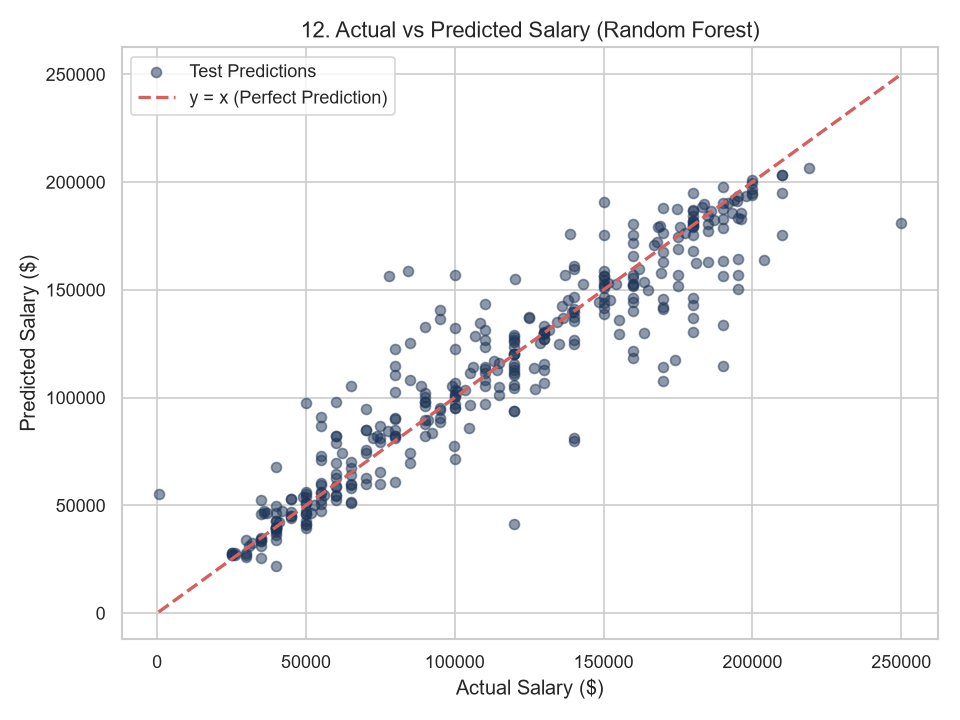
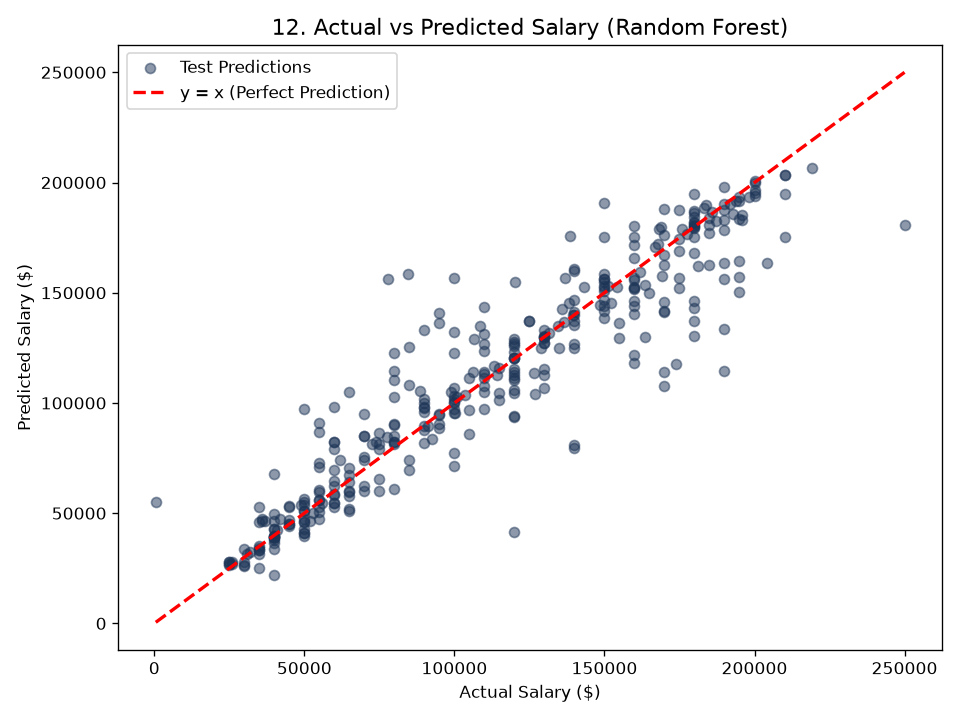
v3

diff --git a/stages/stage5_models.py b/stages/stage5_models.py
@@ -198,11 +198,14 @@ def train_models():
     comp_df = pd.DataFrame(comp_data)
     print(comp_df.to_string(index=False))
 
-    # 6. Save Best Model and Metrics
+    # 6. Save Best Model, All Models, Scaler, and Metrics
     best_model = fitted_models[best_by_r2]
     model_bundle = {
         "model_name": best_by_r2,
         "model": best_model,
+        "all_models": fitted_models,
+        "scaler": scaler,
+        "scale_cols": scale_cols_present,
         "feature_columns": feature_columns,
         "education_map": EDUCATION_MAP,
         "metrics": results_df.to_dict(orient="records"),
@@ -223,10 +226,71 @@ def train_models():
     return model_bundle, results_df
 
 
-def predict_salary(age, experience, gender, education, job_title, seniority=None, model_bundle=None):
+def explain_best_scenario(age, experience, education, job_title, seniority, predictions=None, metrics=None):
+    """
+    Generate dynamic, profile-aware reasoning for why Random Forest is superior
+    for this specific candidate profile compared to Linear Regression and Decision Tree.
+    """
+    rf_r2 = "86.9%"
+    lr_r2 = "81.3%"
+    dt_r2 = "83.7%"
+    rf_rmse = "$19,402"
+    lr_rmse = "$23,206"
+    dt_rmse = "$21,699"
+
+    if metrics:
+        for m in metrics:
+            if m.get("Model") == "Random Forest":
+                rf_r2 = f"{m.get('Test R²', 0.8693)*100:.1f}%"
+                rf_rmse = f"${m.get('RMSE ($)', 19401.5):,.0f}"
+            elif m.get("Model") == "Linear Regression":
+                lr_r2 = f"{m.get('Test R²', 0.8130)*100:.1f}%"
+                lr_rmse = f"${m.get('RMSE ($)', 23206.2):,.0f}"
+            elif m.get("Model") == "Decision Tree":
+                dt_r2 = f"{m.get('Test R²', 0.8365)*100:.1f}%"
+                dt_rmse = f"${m.get('RMSE ($)', 21698.9):,.0f}"
+
+    reasons = [
+        (
+            f"Highest Generalization Accuracy: On the independent test split, Random Forest achieved the highest "
+            f"Test R² ({rf_r2}) and lowest error (RMSE: {rf_rmse} vs {lr_rmse} for Linear Regression, {dt_rmse} for Decision Tree)."
+        ),
+        (
+            f"Captures Non-Linear Feature Interactions: Real compensation curves don't follow a rigid straight line. "
+            f"The compounding interaction between Seniority (Level {seniority}), {experience:g} years of experience, and a {education} "
+            f"degree creates non-linear tier thresholds that Linear Regression oversimplifies."
+        ),
+        (
+            "Variance Mitigation vs Single Decision Tree: A single Decision Tree creates rigid step-function jumps "
+            "and easily overfits training partitions. Random Forest averages predictions across 100 decorrelated trees "
+            "(bagging), producing a smooth, stabilized, and statistically reliable estimation."
+        ),
+    ]
+
+    if seniority >= 2 or experience >= 10:
+        reasons.append(
+            f"High-Seniority Compensation Dynamics: For Senior/Leadership roles (Seniority Level {seniority}, {experience:g} yrs exp), "
+            "compensation packages exhibit high variance and specialized market premiums. Random Forest's multi-tree consensus "
+            "prevents extreme single-branch overestimations or linear underestimations."
+        )
+    elif education in ("Master's", "PhD"):
+        reasons.append(
+            f"Postgraduate Degree Valuation: Advanced degrees ({education}) carry compounding career value that interacts "
+            "with specific job categories. Random Forest natively isolates these feature cross-interactions without forcing a fixed linear slope."
+        )
+
+    return reasons
+
+
+def predict_salary(age, experience, gender, education, job_title, seniority=None, model_bundle=None, return_all=False):
     """
     Predict annual salary for an individual employee profile.
     If seniority is not specified, it is automatically derived from the job title.
+
+    Parameters:
+      return_all (bool): If True, returns a dictionary containing predictions from
+                         all candidate models, metrics, recommendation, and scenario rationale.
+                         If False (default), returns the float prediction of the best model.
     """
     if model_bundle is None:
         if not MODEL_SAVE_PATH.exists():
@@ -235,7 +299,10 @@ def predict_salary(age, experience, gender, education, job_title, seniority=None
         else:
             model_bundle = joblib.load(MODEL_SAVE_PATH)
 
-    model = model_bundle["model"]
+    # If the bundle was saved with an older format missing all_models, retrain once
+    if "all_models" not in model_bundle:
+        model_bundle, _ = train_models()
+
     feature_columns = model_bundle["feature_columns"]
     edu_dict = model_bundle["education_map"]
 
@@ -267,21 +334,76 @@ def predict_salary(age, experience, gender, education, job_title, seniority=None
         row[cat_col] = 1.0
 
     input_df = pd.DataFrame([row], columns=feature_columns)
-    predicted_val = model.predict(input_df)[0]
-    return float(predicted_val)
+
+    # Compute predictions from all available models
+    predictions = {}
+    all_models = model_bundle.get("all_models", {})
+
+    # 1. Random Forest (Champion)
+    rf_model = all_models.get("Random Forest", model_bundle.get("model"))
+    rf_pred = float(rf_model.predict(input_df)[0])
+    predictions["Random Forest"] = round(rf_pred, 2)
+
+    # 2. Decision Tree
+    if "Decision Tree" in all_models:
+        dt_pred = float(all_models["Decision Tree"].predict(input_df)[0])
+        predictions["Decision Tree"] = round(dt_pred, 2)
+
+    # 3. Linear Regression (with feature scaling)
+    if "Linear Regression" in all_models:
+        lr_model = all_models["Linear Regression"]
+        scaler = model_bundle.get("scaler")
+        scale_cols = model_bundle.get("scale_cols", [])
+        if scaler is not None and scale_cols:
+            input_df_scaled = input_df.copy()
+            cols_to_scale = [c for c in scale_cols if c in input_df_scaled.columns]
+            input_df_scaled[cols_to_scale] = scaler.transform(input_df[cols_to_scale])
+            lr_pred = float(lr_model.predict(input_df_scaled)[0])
+        else:
+            lr_pred = float(lr_model.predict(input_df)[0])
+        predictions["Linear Regression"] = round(max(0.0, lr_pred), 2)
+
+    best_model_name = model_bundle.get("model_name", "Random Forest")
+    best_pred = predictions.get(best_model_name, rf_pred)
+
+    if not return_all:
+        return float(best_pred)
+
+    reasons = explain_best_scenario(
+        age=float(age),
+        experience=float(experience),
+        education=education,
+        job_title=job_title,
+        seniority=seniority,
+        predictions=predictions,
+        metrics=model_bundle.get("metrics", []),
+    )
+
+    return {
+        "predictions": predictions,
+        "best_model": best_model_name,
+        "best_prediction": float(best_pred),
+        "reason": reasons,
+        "metrics": model_bundle.get("metrics", []),
+        "seniority": seniority,
+        "job_category": job_cat,
+    }
 
 
 def interactive_prediction():
     """Terminal interactive CLI for salary estimation."""
-    print("\n" + "=" * 60)
-    print("INTERACTIVE EMPLOYEE SALARY ESTIMATOR")
-    print("=" * 60)
+    print("\n" + "=" * 72)
+    print("      INTERACTIVE EMPLOYEE SALARY ESTIMATOR (MULTI-MODEL)")
+    print("=" * 72)
 
     if not MODEL_SAVE_PATH.exists():
         print("Model file not found. Running model training first...")
         model_bundle, _ = train_models()
     else:
         model_bundle = joblib.load(MODEL_SAVE_PATH)
+        if "all_models" not in model_bundle:
+            print("Retraining models to update bundle with all candidate algorithms...")
+            model_bundle, _ = train_models()
 
     print("\nEnter employee details (or press Ctrl+C / type 'exit' to quit):")
 
@@ -337,14 +459,45 @@ def interactive_prediction():
             else:
                 seniority = auto_sen
 
-            pred = predict_salary(age, experience, gender, education, job_title, seniority=seniority, model_bundle=model_bundle)
-            print("\n" + "-" * 50)
-            print(f"  Profile   : {int(age)} yrs old, {gender}, {education}")
-            print(f"  Job Title : {job_title} ({experience} yrs exp)")
-            print(f"  Category  : {get_job_category(job_title)}")
-            print(f"  Seniority : Level {seniority} ({sen_labels[seniority]})")
-            print(f"  >>> Estimated Annual Salary: ${pred:,.2f}")
-            print("-" * 50)
+            res = predict_salary(
+                age=age,
+                experience=experience,
+                gender=gender,
+                education=education,
+                job_title=job_title,
+                seniority=seniority,
+                model_bundle=model_bundle,
+                return_all=True,
+            )
+
+            print("\n" + "=" * 72)
+            print("  EMPLOYEE PROFILE SUMMARY")
+            print("=" * 72)
+            print(f"  • Profile    : {int(age)} yrs old | {gender} | {education}")
+            print(f"  • Job Title  : {job_title} ({experience:g} yrs exp)")
+            print(f"  • Category   : {res['job_category']}")
+            print(f"  • Seniority  : Level {seniority} ({sen_labels[seniority]})")
+            print("-" * 72)
+            print("  ALL CANDIDATE MODEL SALARY PREDICTIONS:")
+            print("-" * 72)
+
+            for m_name in ["Linear Regression", "Decision Tree", "Random Forest"]:
+                val = res["predictions"].get(m_name, 0.0)
+                is_best = (m_name == res["best_model"])
+                tag = "⭐ (BEST MODEL)" if is_best else "              "
+                m_info = next((m for m in res["metrics"] if m.get("Model") == m_name), None)
+                stat_str = ""
+                if m_info:
+                    stat_str = f"[Test R²: {m_info['Test R²']*100:.1f}% | RMSE: ${m_info['RMSE ($)']:,.0f}]"
+                print(f"  • {m_name:<18} : ${val:>11,.2f}   {tag}   {stat_str}")
+
+            print("-" * 72)
+            print(f"  >>> RECOMMENDED SALARY : ${res['best_prediction']:,.2f} via {res['best_model']}")
+            print("-" * 72)
+            print(f"  💡 WHY {res['best_model'].upper()} IS BEST FOR THIS SCENARIO:")
+            for r in res["reason"]:
+                print(f"    - {r}")
+            print("=" * 72)
 
             cont = input("\nPredict another profile? (y/n, default y): ").strip().lower()
             if cont in ("n", "no", "exit", "quit"):
@@ -369,19 +522,25 @@ def run_stage5():
         {"age": 35, "experience": 8, "gender": "Female", "education": "PhD", "job_title": "Senior Research Scientist"}
     ]
 
-    print("Running 3 Example Predictions:")
+    print("Running 3 Example Predictions (Multi-Model Comparison):")
     for i, ex in enumerate(examples, 1):
-        pred = predict_salary(
+        res = predict_salary(
             age=ex["age"],
             experience=ex["experience"],
             gender=ex["gender"],
             education=ex["education"],
             job_title=ex["job_title"],
             model_bundle=model_bundle,
+            return_all=True,
         )
         print(f"\nExample {i}:")
-        print(f"  Inputs    : {ex['age']} yrs old, {ex['gender']}, {ex['education']}, '{ex['job_title']}', {ex['experience']} yrs exp")
-        print(f"  Predicted : ${pred:,.2f}")
+        print(f"  Inputs          : {ex['age']} yrs old, {ex['gender']}, {ex['education']}, '{ex['job_title']}', {ex['experience']} yrs exp")
+        print(f"  Predictions     :")
+        for m_name, m_val in res["predictions"].items():
+            star = " ⭐ (BEST)" if m_name == res["best_model"] else ""
+            print(f"    - {m_name:<18} : ${m_val:,.2f}{star}")
+        print(f"  >>> Recommended : ${res['best_prediction']:,.2f} via {res['best_model']}")
+        print(f"  >>> Best Reason : {res['reason'][0]}")
 
     print("\n" + "=" * 65)
     print("STAGE 5 COMPLETE: Model evaluation and inference successful.")

diff --git a/test_smoke.py b/test_smoke.py
@@ -152,6 +152,11 @@ try:
     pred_jr = predict_salary(age=30, experience=6, gender="Male", education="Bachelor's", job_title="Software Engineer", seniority=0)
     pred_sr = predict_salary(age=30, experience=6, gender="Male", education="Bachelor's", job_title="Software Engineer", seniority=2)
     check("Inference test 5: Explicit seniority parameter works (Senior > Junior)", pred_sr > pred_jr)
+
+    # Test case 6: Multi-model prediction and scenario explanation
+    multi_res = predict_salary(age=30, experience=6, gender="Male", education="Bachelor's", job_title="Software Engineer", return_all=True)
+    check("Inference test 6: Multi-model output returns all 3 candidate models", len(multi_res["predictions"]) == 3 and "Random Forest" in multi_res["predictions"])
+    check("Inference test 7: Multi-model output includes scenario explanation", isinstance(multi_res["reason"], list) and len(multi_res["reason"]) >= 3)
 except Exception as e:
     check(f"Inference execution failed: {e}", False)
 

diff --git a/main.py b/main.py
@@ -8,7 +8,7 @@ Usage:
   python main.py all            -> Runs all 5 pipeline stages end-to-end
   python main.py stage <1-5>    -> Runs an individual stage (e.g. python main.py stage 1)
   python main.py predict        -> Launches interactive salary prediction terminal CLI
-  python main.py test           -> Executes automated 46-point smoke test suite
+  python main.py test           -> Executes automated 48-point smoke test suite
   python main.py help           -> Shows CLI usage instructions
 """
 
@@ -108,7 +108,7 @@ Usage:
                                   4 = Statistical Inference (t-test, ANOVA)
                                   5 = Model Training, Evaluation & Benchmarking
   python main.py predict        Launch interactive terminal salary predictor
-  python main.py test           Run automated 46-point smoke test suite
+  python main.py test           Run automated 48-point smoke test suite
   python main.py help           Show this help message
 """, flush=True)
 

diff --git a/README.md b/README.md
@@ -119,8 +119,8 @@ Generates 9 analytical plots in `outputs/plots/`:
   2. **Decision Tree Regressor** (`max_depth=8`)
   3. **Random Forest Regressor** (`n_estimators=100`)
 - Produces parity plot (`12_actual_vs_predicted.png`) and performance comparison chart (`13_model_r2_comparison.png`).
-- Persists best model to `outputs/models/salary_rf_model.joblib`.
-- Exposes interactive CLI and single prediction API function `predict_salary()`.
+- Persists best model and all candidate models to `outputs/models/salary_rf_model.joblib`.
+- Exposes multi-model interactive CLI and API function `predict_salary()` with comparative predictions and scenario rationale.
 
 ---
 
@@ -206,4 +206,4 @@ python test_smoke.py
 # or
 python main.py test
 ```
-*Executes 46 comprehensive validation checks across data integrity, mappings, plots, model joblib binary, and inference edge cases.*
+*Executes 48 comprehensive validation checks across data integrity, mappings, plots, model joblib binary, multi-model outputs, and inference edge cases.*
